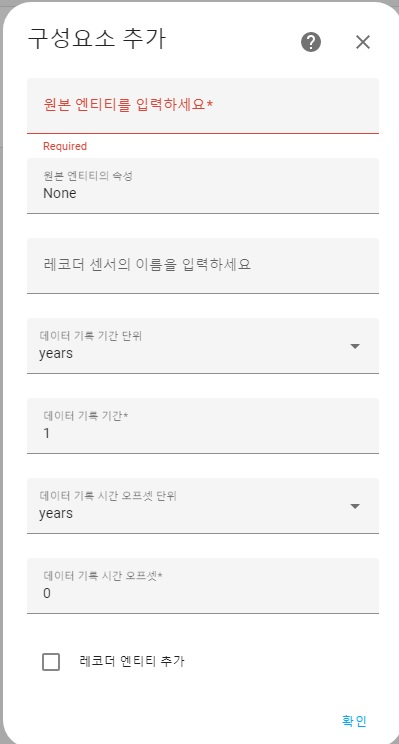
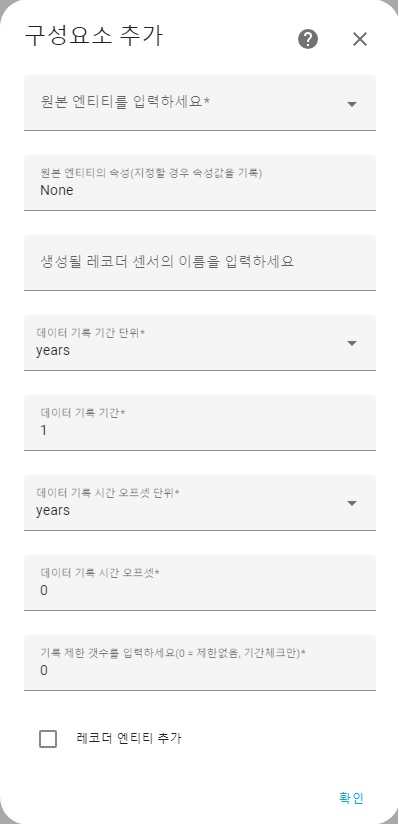
- 버그 수정

diff --git a/custom_components/custom_recorder/sensor.py b/custom_components/custom_recorder/sensor.py
@@ -7,7 +7,7 @@
 # battery), the unit_of_measurement should match what's expected.
 import logging
 from homeassistant.const import (
-    STATE_UNKNOWN, STATE_UNAVAILABLE, ATTR_UNIT_OF_MEASUREMENT, ATTR_ICON
+    STATE_UNKNOWN, STATE_UNAVAILABLE, ATTR_UNIT_OF_MEASUREMENT, ATTR_ICON, ATTR_ENTITY_PICTURE
 )
 
 import time
@@ -47,22 +47,24 @@ async def async_setup_entry(hass, config_entry, async_add_devices):
 
     hass.data[DOMAIN][config_entry.entry_id]["listener"] = []
     
-    device = Device(NAME, config_entry)
+    device = Device(config_entry.data.get(CONF_DEVICE_NAME), config_entry)
 
     new_devices = []
     tmp_devices = []
 
+    data_dir = DATA_DIR + config_entry.entry_id + "/"
+
     # 지정된 디렉토리의 모든 파일을 읽는다
-    if os.path.isdir(DATA_DIR) == False:
-        os.makedirs(DATA_DIR)
+    if os.path.isdir(data_dir) == False:
+        os.makedirs(data_dir)
 
     
     # 디렉토리에 있는 목록으로 config 대체
-    file_list = os.listdir(DATA_DIR)
+    file_list = os.listdir(data_dir)
     for file in file_list:
         d = [None, None]
         _LOGGER.debug(f"filename - {file}")
-        with open(DATA_DIR + file) as fp:
+        with open(data_dir + file) as fp:
             lines = fp.readlines()
             _LOGGER.debug("lines : %s", lines)
             name = None
@@ -329,10 +331,12 @@ class CustomRecorder(Sensorbase):
         self._name = "{}".format(entity_name)
         # self._name = "{} {}".format(device.device_id, SENSOR_TYPES[sensor_type][1])
         self._unit_of_measurement = None
+        _LOGGER.debug("last_data : " + str(last_data[1]))
         self._state = last_data[1]
         self._offset_unit = offset_unit
         self._offset = offset
         self._attributes = {}
+        self._entity_picture = None
         self._attributes[CONF_SOURCE_ENTITY] = source_entity
         self._attributes[CONF_SOURCE_ENTITY_ATTR] = source_entity_attr
         self._attributes[CONF_RECORD_PERIOD_UNIT] = record_period_unit
@@ -404,6 +408,8 @@ class CustomRecorder(Sensorbase):
                 ATTR_UNIT_OF_MEASUREMENT)
             self._icon = new_state.attributes.get(
                 ATTR_ICON)
+            self._entity_picture = new_state.attributes.get(
+                ATTR_ENTITY_PICTURE)
             
             _LOGGER.debug(f"source entity attr - {self._source_entity_attr}")
 
@@ -414,32 +420,39 @@ class CustomRecorder(Sensorbase):
 
             data = dict(sorted(self._attributes["data"].items(), reverse=True))
             _LOGGER.debug(f"data : " + str(data) + ", length : " + str(len(data)))
+            # 기간 지난것들 체크
+            args = {}
+            offset_args = {}
+            args[self._record_period_unit] = int(self._record_period)
+            # offset 설정만큼 보정
+            offset_args[self._offset_unit] = int(self._offset)
+            #data = sorted(data.items())
+            tmp = {}
+            for key in data.keys():
+                # 여유시간 1분 추가
+                if datetime.strptime(key, '%Y-%m-%d %H:%M:%S.%f') > datetime.now() - relativedelta(**args) - relativedelta(**offset_args) + timedelta(minutes=1):
+                    if (
+                        (int(self._attributes[CONF_RECORD_LIMIT_COUNT]) != 0 and len(tmp) < int(self._attributes[CONF_RECORD_LIMIT_COUNT]) - 1)
+                        or (int(self._attributes[CONF_RECORD_LIMIT_COUNT]) == 0)
+                        ):
+                        tmp[key] = data[key]
+                    else:
+                        break
+            _LOGGER.debug("self._state : %f, new_state : %f", float(self._state), float(new_state.state))
+            _LOGGER.debug("self._state : %s, new_state : %s", str(self._state), str(new_state.state))
+            data = dict(sorted(tmp.items()))
             if (len(data) <= 0 or 
-                (self._source_entity_attr == None and str(self._state) != str(new_state.state)) or
-                (self._source_entity_attr != None and str(self._state) != str(new_state.attributes.get(self._source_entity_attr)))
+                    (isNumber(self._state) == False and self._source_entity_attr == None and str(self._state) != str(new_state.state)) or
+                    (isNumber(self._state) == False and self._source_entity_attr != None and str(self._state) != str(new_state.attributes.get(self._source_entity_attr))) or
+                    (isNumber(self._state) == True and self._source_entity_attr == None and float(self._state) != float(new_state.state)) or
+                    (isNumber(self._state) == True and self._source_entity_attr != None and float(self._state) != float(new_state.attributes.get(self._source_entity_attr)))
                 ):
                 if self._source_entity_attr != None:
                     self._state = new_state.attributes.get(self._source_entity_attr)
                 else:
                     self._state = new_state.state
-
-                args = {}
-                offset_args = {}
-                args[self._record_period_unit] = int(self._record_period)
-                # offset 설정만큼 보정
-                offset_args[self._offset_unit] = int(self._offset)
-                #data = sorted(data.items())
-                # 기간 지난것들 체크
-                tmp = {}
-                for key in data.keys():
-                    # 여유시간 1분 추가
-                    if datetime.strptime(key, '%Y-%m-%d %H:%M:%S.%f') > datetime.now() - relativedelta(**args) - relativedelta(**offset_args) + timedelta(minutes=1):
-                        if int(self._attributes[CONF_RECORD_LIMIT_COUNT]) != 0 and len(tmp) < int(self._attributes[CONF_RECORD_LIMIT_COUNT]) - 1:
-                            tmp[key] = data[key]
-                        else:
-                            break
             
-                data = dict(sorted(tmp.items()))
+                
                 #_LOGGER.debug(f"offset unit : {self._offset_unit}, offset : {self._offset}")
                 now = datetime.now()
                 self._attributes["last_update_time"] = now
@@ -449,7 +462,7 @@ class CustomRecorder(Sensorbase):
                 _LOGGER.debug(f"self._state - {self._state}")
                 d = "[data]\n" + str_now + ',' + str(self._state) + "\n"
                 #_LOGGER.debug(f"data - {data}")
-                with open(DATA_DIR + self._attributes["data_file"], "a") as fp:
+                with open(DATA_DIR + self.entry_id + "/" + self._attributes["data_file"], "a") as fp:
                     fp.write(d)
 
                 self._attributes["data"] = data
@@ -466,6 +479,13 @@ class CustomRecorder(Sensorbase):
     @property
     def has_entity_name(self) -> bool:
         return True
+
+    @property
+    def entity_picture(self):
+        try:
+            return self._entity_picture
+        except:
+            return None
 
     @property
     def state(self):

diff --git a/custom_components/custom_recorder/config_flow.py b/custom_components/custom_recorder/config_flow.py
@@ -50,16 +50,17 @@ class ConfigFlow(config_entries.ConfigFlow, domain=DOMAIN):
             #    return self.async_create_entry(title=user_input[CONF_AREA_NAME], data=user_input)
             # else:
             self.data = user_input
+            #self.data[CONF_NAME] = NAME
             #self.data[CONF_SWITCHES] = []
             # self.devices = await get_available_device()
             # return await self.async_step_hosts()
-            return self.async_create_entry(title=NAME, data=self.data)
+            return self.async_create_entry(title=user_input[CONF_DEVICE_NAME], data=self.data)
 
         # If there is no user input or there were errors, show the form again, including any errors that were found with the input.
         return self.async_show_form(
             step_id="user", data_schema=vol.Schema(
                 {
-                    # vol.Required(CONF_ADD_GROUP_DEVICE): cv.boolean
+                    vol.Required(CONF_DEVICE_NAME): cv.string
                 }), errors=errors
         )
 
@@ -74,21 +75,24 @@ class OptionsFlowHandler(config_entries.OptionsFlow):
     """Handles options flow for the component."""
 
     def __init__(self, config_entry):
-
-        if os.path.isdir(DATA_DIR) == False:
-            os.makedirs(DATA_DIR)
+        data_dir = DATA_DIR + config_entry.entry_id + "/"
+        if os.path.isdir(data_dir) == False:
+            os.makedirs(data_dir)
 
         _LOGGER.debug("call init")
         _LOGGER.debug(f"options - {config_entry.options}")
+        _LOGGER.debug("config entry_id : " + config_entry.entry_id)
         # 디렉토리에 있는 목록으로 config 대체
-        file_list = os.listdir(DATA_DIR)
+        file_list = os.listdir(data_dir)
+        if len(file_list) <= 0:
+            os.removedirs(data_dir)
 
 
         self.config_entry = config_entry
         self.data = {}
         self.data[CONF_ENTITIES] = []
         for file in file_list:
-            f = open(DATA_DIR + file)
+            f = open(data_dir + file)
             lines = f.readlines()
             record_limit_count = DEFAULT_LIMIT_COUNT
             for idx, line in enumerate(lines):
@@ -227,7 +231,13 @@ class OptionsFlowHandler(config_entries.OptionsFlow):
                 for key in remove_entities:
                     _LOGGER.debug(f"remove entity : {key}, size - {remove_entities}")
                     # 여기에서 파일 삭제
-                    os.remove(DATA_DIR + remove_entities[key] + ".txt")
+                    data_dir = DATA_DIR + self.config_entry.entry_id + "/"
+                    os.remove(data_dir + remove_entities[key] + ".txt")
+                    file_list = os.listdir(data_dir)
+                    _LOGGER.debug("file_list size : %d", len(file_list))
+                    #if len(file_list) <= 0:
+                    #    _LOGGER.debug("remove dir : %s", data_dir)
+                    #    os.removedirs(data_dir)
 
                     entity_registry.async_remove(key)
 
@@ -292,11 +302,14 @@ class OptionsFlowHandler(config_entries.OptionsFlow):
                 self.data["modifydatetime"] = datetime.now()
 
                 # 여기에서 파일 생성, 존재하지 않는 파일들은 생성해 줌
-                file_list = os.listdir(DATA_DIR)
+                data_dir = DATA_DIR + self.config_entry.entry_id + "/"
+                if os.path.isdir(data_dir) == False:
+                    os.makedirs(data_dir)
+                file_list = os.listdir(data_dir)
                 for e in self.data[CONF_ENTITIES]:
                     if e[CONF_NAME] + ".txt" not in file_list:
                         # 파일 생성
-                        with open(DATA_DIR + e[CONF_NAME] + ".txt", "w") as fp:
+                        with open(data_dir + e[CONF_NAME] + ".txt", "w") as fp:
                             # 파일 형식에 맞게 데이터 셋팅                        
                             fp.write(FIELD_NAME)
                             fp.write(e[CONF_NAME] + "\n")

diff --git a/custom_components/custom_recorder/__init__.py b/custom_components/custom_recorder/__init__.py
@@ -2,10 +2,11 @@
 import asyncio
 import logging
 
+import os
 from homeassistant.config_entries import ConfigEntry
 from homeassistant.core import HomeAssistant
 
-from .const import DOMAIN
+from .const import *
 
 _LOGGER = logging.getLogger(__name__)
 
@@ -67,6 +68,13 @@ async def async_unload_entry(hass: HomeAssistant, entry: ConfigEntry):
             ]
         )
     )
+
+    data_dir = DATA_DIR + entry.entry_id
+    if os.path.isdir(data_dir):
+        file_list = os.listdir(data_dir)
+        if len(file_list) <= 0:
+            _LOGGER.debug("remove dir : %s", data_dir)
+            os.removedirs(data_dir)
 
     if unload_ok:
         hass.data[DOMAIN].pop(entry.entry_id)

diff --git a/README.md b/README.md
@@ -16,3 +16,19 @@ HomeAssistant 에서 엔티티의 변경 기록을 외부 파일에 저장하는
 <br/>
 
 ![add_entity](./images/add_entity.jpg)
+
+
+* 원본 엔티티 - 상태 변경을 추적할 원본 엔티티의 id 입력
+* 원본 엔티티의 속성 - 지정되어있지 않으면 원본 엔티티의 상태값, 지정되면 원본 엔티티의 속성값을 기록
+* 레코더 센서 이름 - 생성될 센서의 이름
+* 데이터 기록 기간 단위 - 데이터를 기록할 기간의 단위
+* 데이터 기록 기간 - 데이터 기록 기간<br>
+ex)<br>1 years = 1년간 기록 ( 1년 이전의 기록은 제거 )<br>
+1 months = 1달간 기록 ( 1달 이전의 기록은 제거 )<br>
+7 days = 7일간 기록 ( 7일 이전의 기록은 제거 )
+  
+* 오프셋 단위 - 데이터 기록시 기록 시점의 오프셋 단위
+* 오프셋 - 데이터 기록시 기록 시점의 오프셋<br>
+ex)<br>1 seconds - 실제 상태가 변경된 시점에서 1초 추가하여 기록<br>
+-1 seconds - 실제 상태가 변경된 시점에서 1초 차감하여 기록<br>
+* 기록 제한 갯수 - 기록 기간과는 별개로 기록 가능한 제한 갯수 (0은 무제한)<br>
